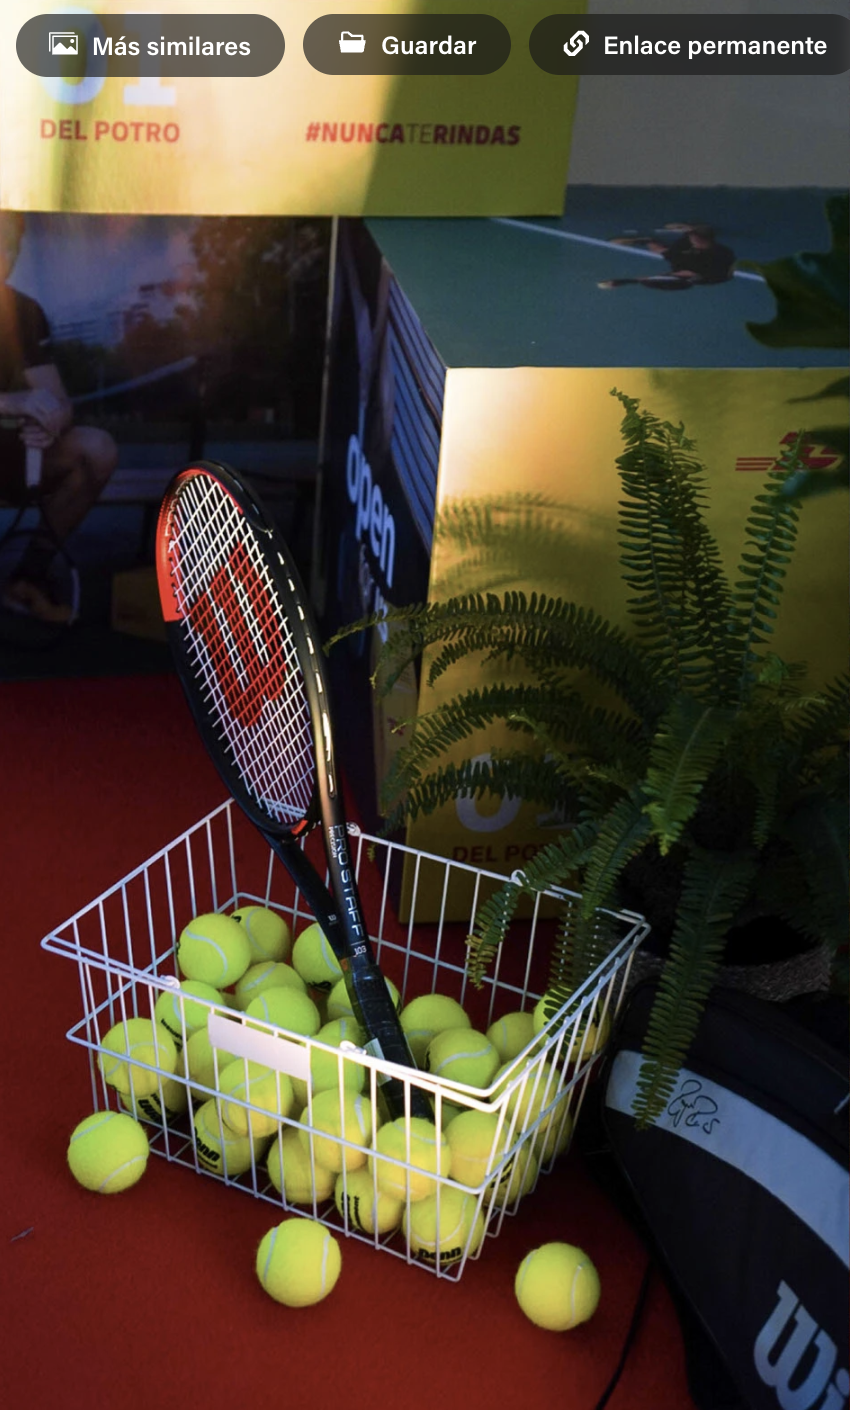
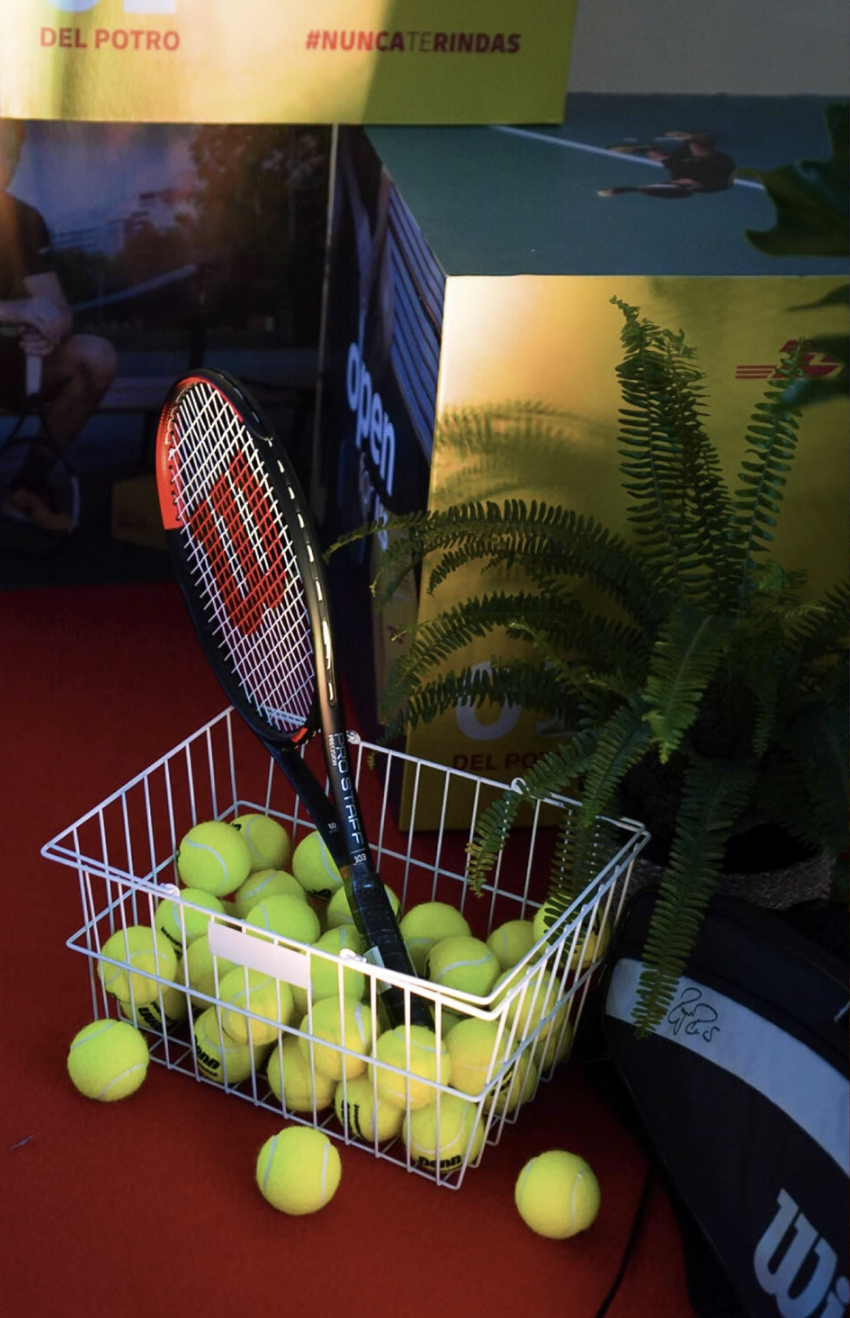
DHL: add Del Potro campaign photos, rebuild layout aligned, ready video slot (#22)
- Add the new Open for Us / #NuncaTeRindas photos: two on-court product
  shots, the "Un grande entre grandes" still, the DHL event backdrop, two
  digital banners, the MALBA talk photo, a racket close-up and the QR
  table tent.
- Rebuild the DHL layout with project-page--dhl scoped CSS so every frame
  matches its image ratio (no letterboxing/air) and rows stay aligned:
  on-court duo, stacked OOH, square duo, event photo beside results.
- Fix a pre-existing defect: detail-racket.png had a Pinterest hover
  overlay baked into the top — cropped it out.
- Add a ready (commented) self-hosted video block that plays on click
  (no autoplay), poster set, pending the web-sized MP4 source.

Claude-Session: https://claude.ai/code/session_01GQVjDWzsvRANoy4EtEM73t

diff --git a/project-dhl.html b/project-dhl.html
@@ -23,7 +23,7 @@
         })();
     </script>
 </head>
-<body class="project-page">
+<body class="project-page project-page--dhl">
     <!-- ========== LANGUAGE PICKER OVERLAY ========== -->
     <div id="lang-overlay" hidden>
       <div class="lang-picker">
@@ -72,13 +72,13 @@
         </header>
 
         <!-- Hero -->
-        <div class="proj-hero proj-frame" data-parallax="6">
+        <div class="proj-hero proj-frame" data-parallax="6" style="aspect-ratio: 2516 / 1406;">
             <img src="./images/dhl/hero-keyvisual.png" alt="Juan Martín del Potro x DHL — #NuncaTeRindas">
         </div>
 
         <!-- Stage A: tall frame + Contexto -->
         <section class="proj-stage proj-stage--ab">
-            <div class="proj-frame stage-tall" data-parallax="12">
+            <div class="proj-frame stage-tall" data-parallax="10" style="aspect-ratio: 860 / 1410;">
                 <img src="./images/dhl/boxes-stack.png" alt="DHL Open for Us — boxes installation">
             </div>
             <div class="stage-text proj-text">
@@ -88,19 +88,20 @@
             </div>
         </section>
 
-        <section class="proj-pair">
-            <div class="proj-frame pair-a" data-parallax="-10">
-                <img src="./images/dhl/box-closeup.png" alt="DHL — Open for Us box detail">
+        <!-- Del Potro on court -->
+        <section class="dhl-duo" style="--ar: 3 / 2;">
+            <div class="proj-frame" data-parallax="8">
+                <img src="./images/dhl/court-box-02.jpg" alt="Juan Martín del Potro — sesión en cancha con caja DHL">
             </div>
-            <div class="proj-frame pair-b" data-parallax="14">
-                <img src="./images/dhl/ooh-billboard.png" alt="Juan Martín del Potro — DHL outdoor billboard">
+            <div class="proj-frame" data-parallax="-8">
+                <img src="./images/dhl/court-box-01.jpg" alt="Juan Martín del Potro — raqueta y caja DHL Open for Us">
             </div>
         </section>
 
         <!-- Pull-quote -->
         <section class="proj-stage proj-stage--quote">
             <h2 class="proj-pullquote" data-i18n="project.dhl.pull">El brief no era solo creativo — era un equilibrio.</h2>
-            <div class="proj-frame stage-q-1" data-parallax="14">
+            <div class="proj-frame stage-q-1" data-parallax="12" style="aspect-ratio: 850 / 1318;">
                 <img src="./images/dhl/detail-racket.png" alt="DHL Open for Us — tennis detail">
             </div>
         </section>
@@ -113,22 +114,66 @@
                 <p data-i18n="project.dhl.ex2">La dirección de arte se extendió al espacio físico: dirigí la escenografía del evento de lanzamiento en el MALBA.</p>
                 <p data-i18n="project.dhl.ex3">La decisión creativa central fue la restricción — dejar que la historia de Del Potro cargara la emoción mientras el diseño se mantenía preciso, moderno y disciplinado.</p>
             </div>
-            <div class="proj-frame stage-tall" data-parallax="-12">
+            <div class="proj-frame stage-tall" data-parallax="-10" style="aspect-ratio: 788 / 1410;">
                 <img src="./images/dhl/box-closeup.png" alt="DHL Open for Us — yellow box">
             </div>
         </section>
 
-        <section class="proj-pair">
-            <div class="proj-frame pair-a" data-parallax="14">
-                <img src="./images/dhl/boxes-stack.png" alt="DHL — branded boxes installation">
+        <!-- ============================================================
+             CAMPAIGN FILM — self-hosted, plays on click (no autoplay).
+             Awaiting the web-sized MP4 source. Once available, uncomment:
+        <div class="dhl-video" style="--ar: 16 / 9;">
+            <video controls preload="metadata" playsinline poster="./images/dhl/portada-grande.jpg">
+                <source src="./images/dhl/delpotro-film.mp4" type="video/mp4">
+            </video>
+        </div>
+             ============================================================ -->
+
+        <!-- Un grande entre grandes -->
+        <div class="proj-frame dhl-feature" data-parallax="8" style="--ar: 1920 / 1079;">
+            <img src="./images/dhl/portada-grande.jpg" alt="Juan Martín del Potro — Un grande entre grandes, #NuncaTeRindas">
+        </div>
+
+        <!-- Event backdrop -->
+        <div class="proj-frame dhl-feature" data-parallax="8" style="--ar: 2400 / 1205;">
+            <img src="./images/dhl/banner-dhl.jpg" alt="DHL — backdrop de evento Juan Martín del Potro #NuncaTeRindas">
+        </div>
+
+        <!-- Digital banners -->
+        <section class="dhl-duo" style="--ar: 625 / 521;">
+            <div class="proj-frame" data-parallax="8">
+                <img src="./images/dhl/banner-descubri-01.jpg" alt="DHL Open for Us — banner digital Del Potro">
             </div>
-            <div class="proj-frame pair-b" data-parallax="-10">
-                <img src="./images/dhl/ooh-three-posters.png" alt="DHL Open for Us — three street posters">
+            <div class="proj-frame" data-parallax="-8">
+                <img src="./images/dhl/banner-descubri-02.jpg" alt="DHL Open for Us — banner digital #NuncaTeRindas">
             </div>
         </section>
 
-        <!-- Results -->
+        <!-- OOH pieces -->
+        <section class="dhl-stack">
+            <div class="proj-frame" data-parallax="8" style="--ar: 2512 / 1408;">
+                <img src="./images/dhl/ooh-billboard.png" alt="Juan Martín del Potro — DHL vía pública">
+            </div>
+            <div class="proj-frame" data-parallax="-8" style="--ar: 2514 / 1416;">
+                <img src="./images/dhl/ooh-three-posters.png" alt="DHL Open for Us — tres afiches de calle">
+            </div>
+        </section>
+
+        <!-- Racket close-up + table tent -->
+        <section class="dhl-duo" style="--ar: 1 / 1;">
+            <div class="proj-frame" data-parallax="8">
+                <img src="./images/dhl/racket-face.jpg" alt="Juan Martín del Potro — #NuncaTeRindas a través de la raqueta">
+            </div>
+            <div class="proj-frame" data-parallax="-8">
+                <img src="./images/dhl/table-tent.jpg" alt="DHL Open for Us — atril de mesa con QR">
+            </div>
+        </section>
+
+        <!-- Results + event photo -->
         <section class="proj-stage proj-stage--results">
+            <div class="proj-frame stage-tall" data-parallax="10" style="aspect-ratio: 1066 / 1600; grid-column: 1;">
+                <img src="./images/dhl/event-talk.jpg" alt="DHL Open for Us — charla de Del Potro en el MALBA">
+            </div>
             <div class="proj-text">
                 <span class="proj-text-num">03<span class="proj-text-label"> <span data-i18n="project.results">Resultados</span></span></span>
                 <p data-i18n="project.dhl.res1">La campaña se ejecutó en junio de 2023 con presencia en el MALBA, activaciones digitales y distribución regional de material impreso.</p>
@@ -137,7 +182,7 @@
         </section>
 
         <!-- Closing wide frame -->
-        <div class="proj-frame proj-closing" data-parallax="8">
+        <div class="proj-frame proj-closing" data-parallax="8" style="aspect-ratio: 2512 / 1406;">
             <img src="./images/dhl/event-malba.png" alt="DHL Open for Us — MALBA event">
         </div>
 

diff --git a/css/styles.css b/css/styles.css
@@ -2636,6 +2636,51 @@ html.is-preloading #lang-overlay { visibility: visible; }
 }
 
 /* ========================================================================
+   Juan Martín del Potro x DHL: same alignment discipline — frames matched
+   to image ratios (no "air"), rows share one ratio (never misaligned).
+   ======================================================================== */
+.project-page--dhl .proj-frame > img { object-fit: cover; }
+.project-page--dhl .stage-tall,
+.project-page--dhl .stage-q-1 { min-height: 0; }
+.project-page--dhl .proj-stage--ab,
+.project-page--dhl .proj-stage--ba,
+.project-page--dhl .proj-stage--quote,
+.project-page--dhl .proj-stage--results { align-items: center; }
+
+/* Full-width feature — graphics shown whole (frame == image ratio) */
+.project-page--dhl .dhl-feature { aspect-ratio: var(--ar); margin: 0 0 40px; }
+.project-page--dhl .dhl-feature > img { object-fit: contain; }
+
+/* Two shots side by side, same ratio → aligned */
+.dhl-duo { display: grid; grid-template-columns: 1fr 1fr; gap: 24px; margin: 0 0 40px; }
+.dhl-duo .proj-frame { aspect-ratio: var(--ar, 3 / 2); }
+
+/* Stacked full-width pieces, each matched to its own ratio */
+.dhl-stack { display: grid; grid-template-columns: 1fr; gap: 24px; margin: 0 0 40px; }
+.dhl-stack .proj-frame { aspect-ratio: var(--ar); }
+
+/* Self-hosted campaign film — plays on click (no autoplay) */
+.dhl-video { margin: 0 0 40px; }
+.dhl-video video {
+    display: block;
+    width: 100%;
+    aspect-ratio: var(--ar, 16 / 9);
+    object-fit: cover;
+    border-radius: 6px;
+    background: #111;
+}
+
+@media (max-width: 640px) {
+    .project-page--dhl .dhl-feature.proj-frame,
+    .dhl-stack .proj-frame { aspect-ratio: var(--ar) !important; }
+    .project-page--dhl .dhl-feature > img { object-fit: contain !important; }
+    .dhl-duo { grid-template-columns: 1fr !important; gap: 14px !important; }
+    .dhl-duo .proj-frame { aspect-ratio: var(--ar, 3 / 2) !important; }
+    .project-page--dhl .dhl-feature,
+    .dhl-duo, .dhl-stack, .dhl-video { margin: 0 0 28px !important; }
+}
+
+/* ========================================================================
    Ojo de Tigre: playful scatter of graphic pieces + enlarged claim frame
    ======================================================================== */
 .stage-tall--xl { aspect-ratio: 4 / 5; min-height: 640px; }
